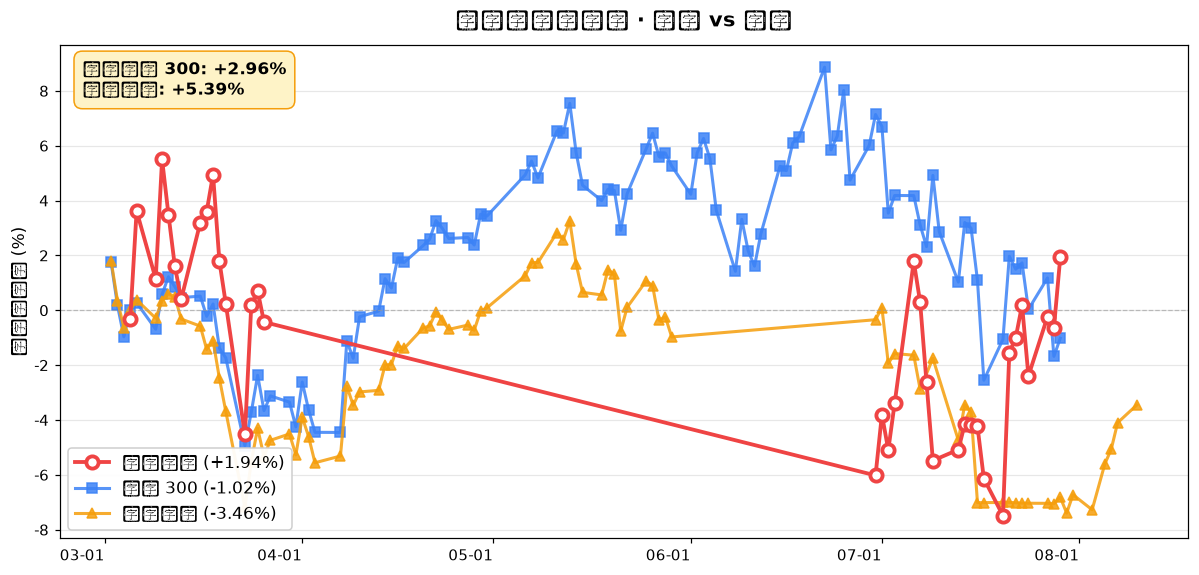
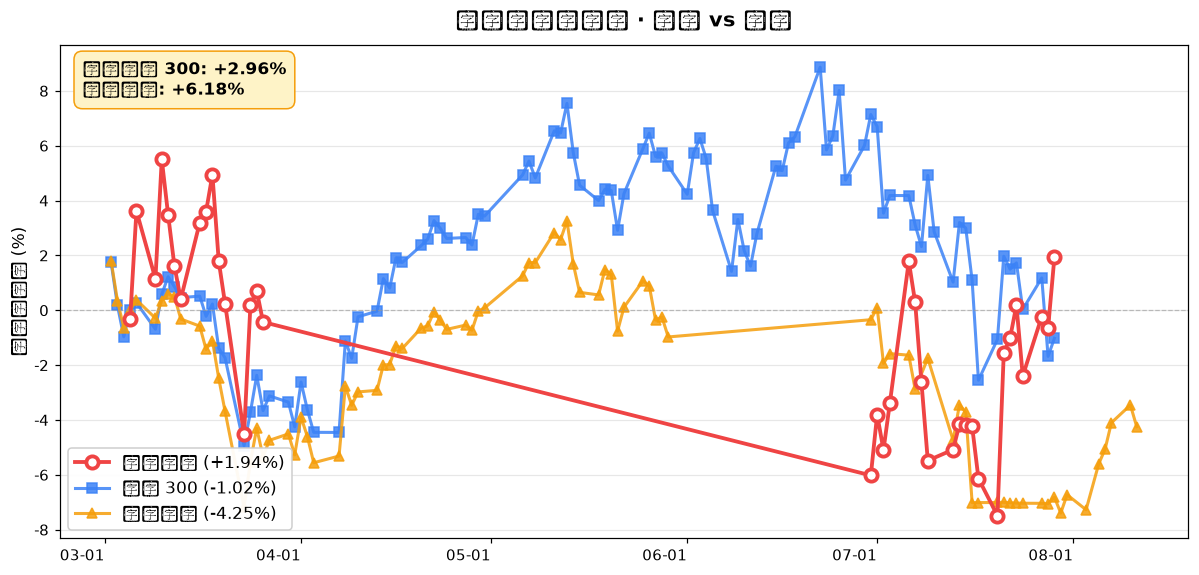
deploy dashboard 2026-08-11

diff --git a/dashboard/index.html b/dashboard/index.html
@@ -111,7 +111,7 @@
 
 <div class="header">
   <h1 data-i18n="title">📊 持仓 Dashboard</h1>
-  <div class="date">2026-08-11 · 更新于 08:21</div>
+  <div class="date">2026-08-11 · 更新于 08:39</div>
 </div>
 
 <div class="hero-pnl" style="padding:16px">
@@ -157,7 +157,7 @@
 
 <div class="excess">
         <b>🔴 跑赢 沪深 300</b>: +2.96%<br>
-        <b>🔴 跑赢 上证指数</b>: +5.39%
+        <b>🔴 跑赢 上证指数</b>: +6.18%
     </div>
 
 <div class="section">
